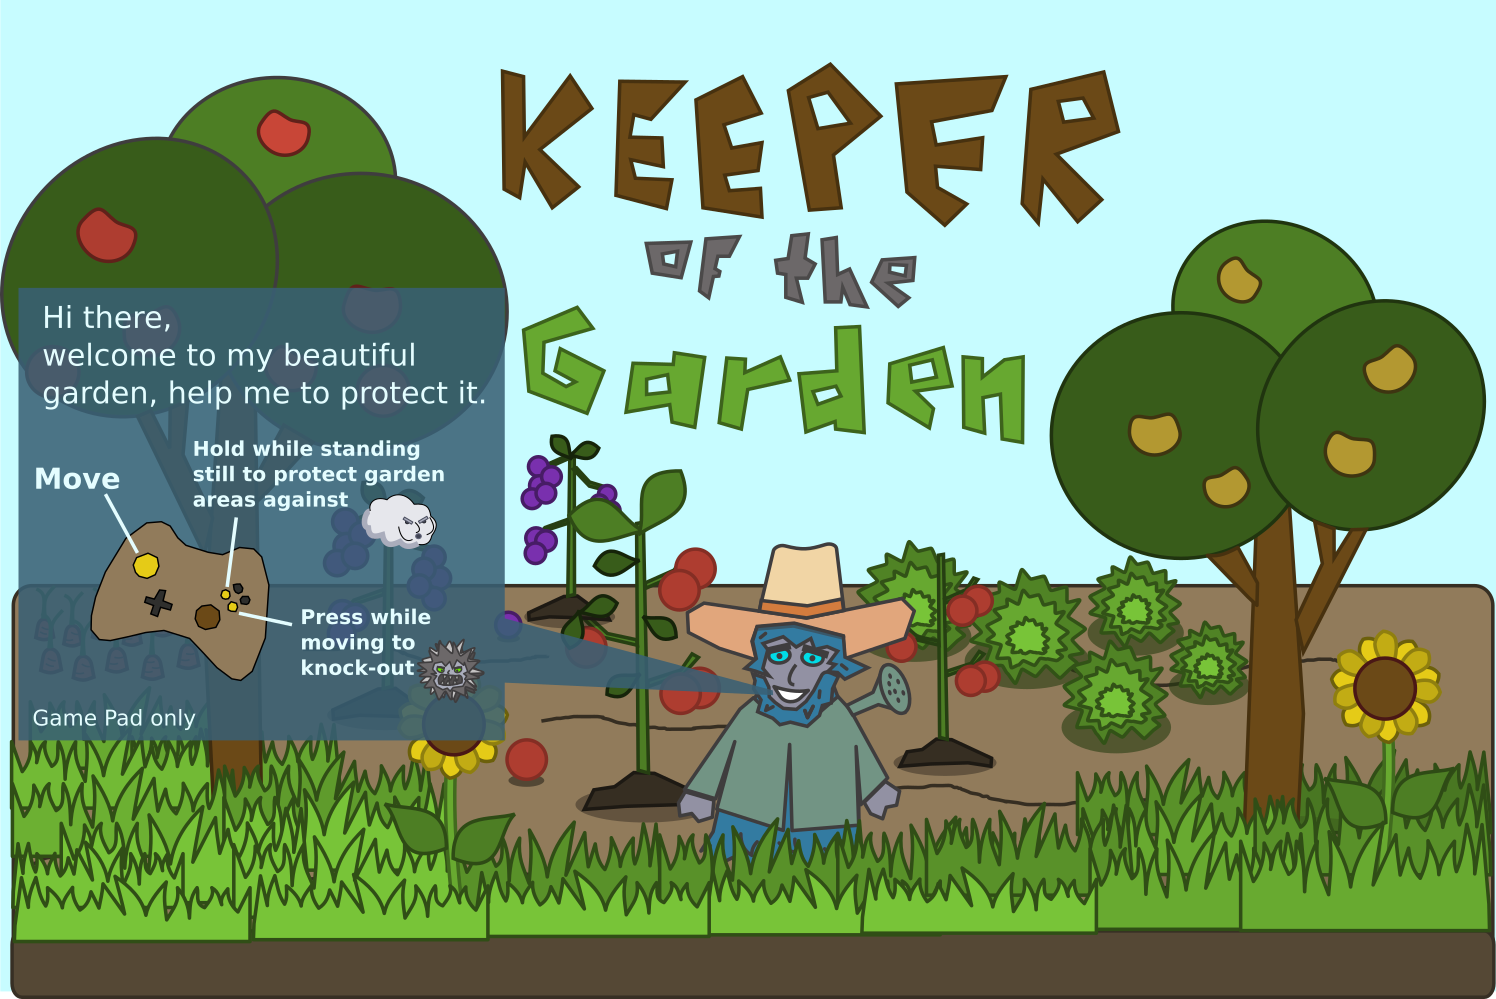
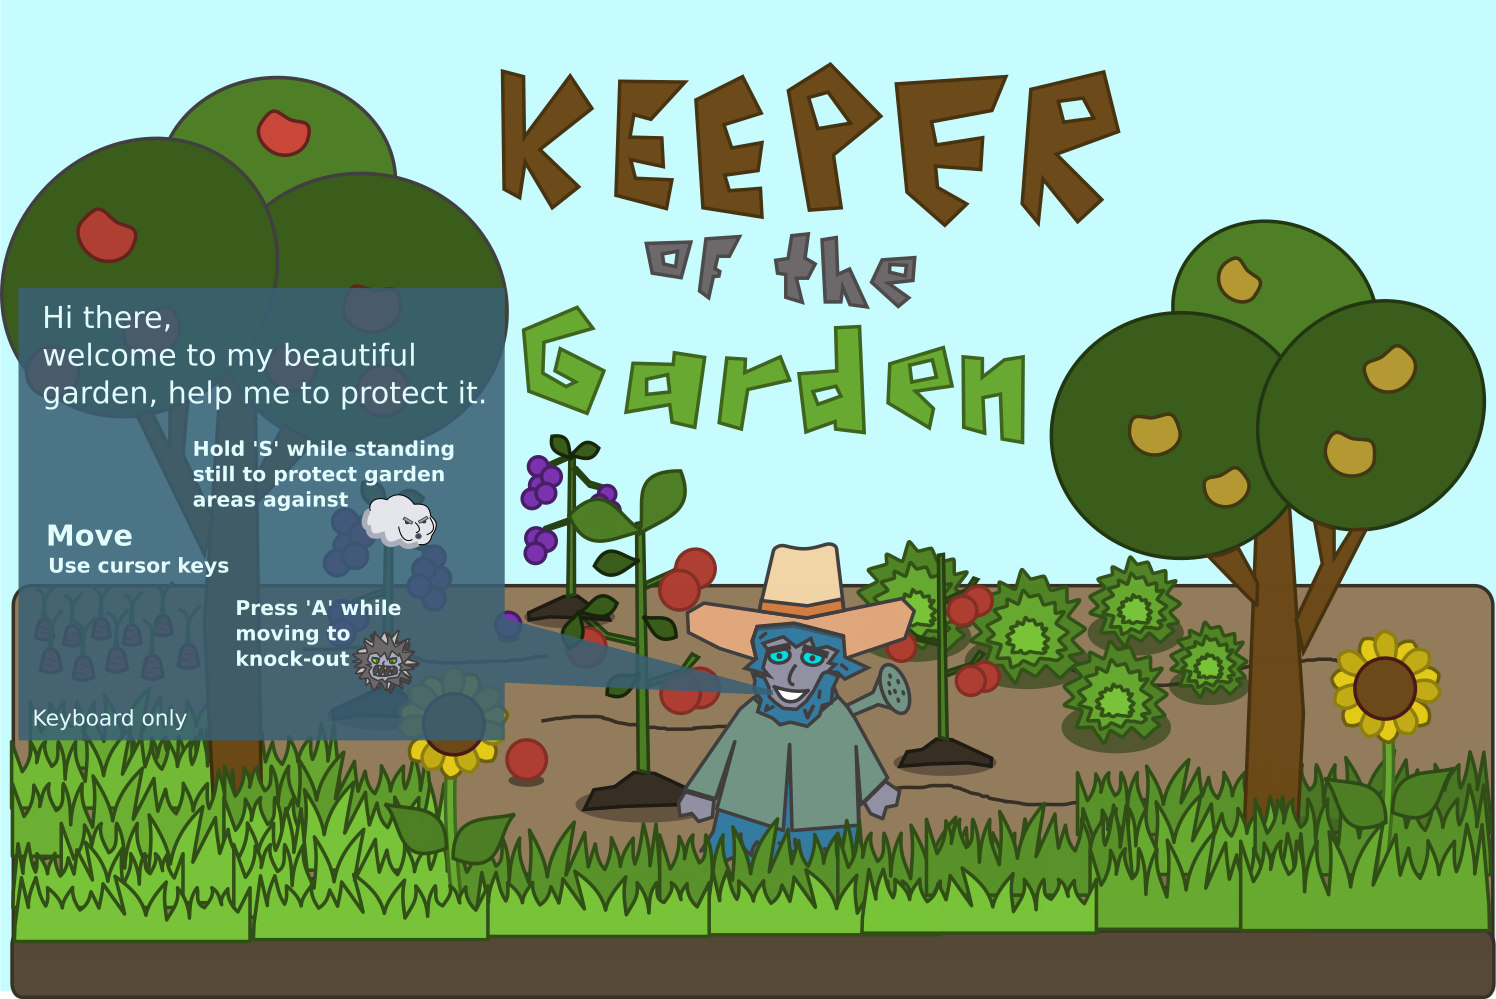
Controls: Fallback to keyboard as Gamepad doesn't work reliably.

Changed region(s): [[0.0, 0.4655, 0.3382, 0.7137], [0.1537, 0.4344, 0.3075, 0.4655], [0.0307, 0.7137, 0.123, 0.7447]]

diff --git a/src/Sandbox.qml b/src/Sandbox.qml
@@ -39,12 +39,6 @@ ClayWorld {
     }
     onWorldCreated: {
         if (map === "") return;
-//        theGameCtrl.selectKeyboard(Qt.Key_Up,
-//                                   Qt.Key_Down,
-//                                   Qt.Key_Left,
-//                                   Qt.Key_Right,
-//                                   Qt.Key_A,
-//                                   Qt.Key_S);
         theWorld.observedItem = player;
         theWorld.running = true;
     }
@@ -72,7 +66,14 @@ ClayWorld {
 
         property bool inGameCtrlEnabled: theWorld.running && theWorld.player
 
-        Component.onCompleted: selectGamepad(0, true);
+        Component.onCompleted: {
+            theGameCtrl.selectKeyboard(Qt.Key_Up,
+                                       Qt.Key_Down,
+                                       Qt.Key_Left,
+                                       Qt.Key_Right,
+                                       Qt.Key_A,
+                                       Qt.Key_S);
+        }
 
         onButtonAPressedChanged: {
             if (!inGameCtrlEnabled) return;
